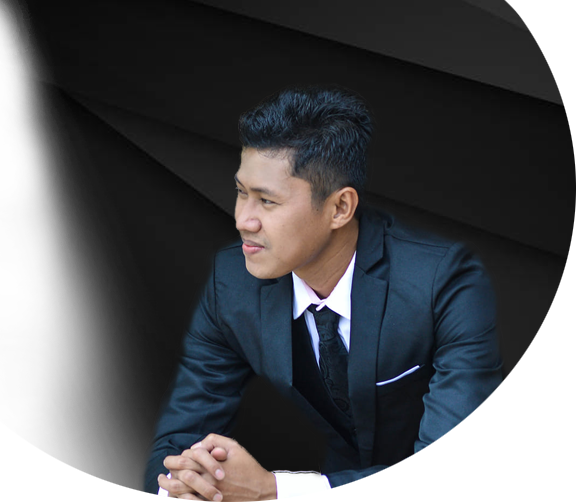
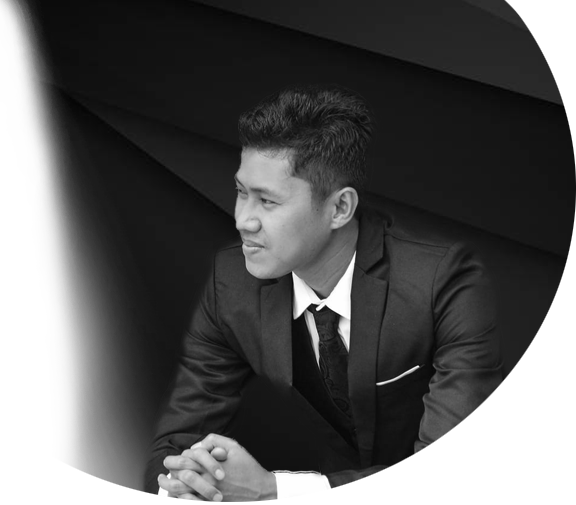
Improved header background image.

diff --git a/blog/static/blog/css/theme.css b/blog/static/blog/css/theme.css
@@ -124,19 +124,19 @@ body{
 }
 
 #header{
-    display: grid;
-    grid-template-columns: 100% 0%;
+    height: 100vh;
+    background: none;
 }
 
 #header p{
-    color: rgb(255,255,255);
+    color: rgb(255, 255, 255);
     margin: 0;
 }
 
 #hello{
     font-family: consola;
     font-size: 1.2rem;
-    margin-top: 7rem;
+    padding-top: 8rem;
     margin-left: 3rem;
 }
 
@@ -150,20 +150,16 @@ body{
     font-family: raleway;
     font-size: 1.2rem;
     margin: 0 5rem 0 3rem;
+    width: 70%;
 }
 
 #header-button{
     margin: 4rem 0 3rem 3rem;
 }
 
-#big-img{
-    display: none;
-}
-
 #me-img{
     width: 100%;
-    filter: grayscale(50%);
-    -webkit-filter: grayscale(50%);
+    filter: grayscale(100%);
 }
 
 .more-button{
@@ -211,7 +207,7 @@ body{
 #about{
     height: auto;
     padding-top: 1.5rem;
-    margin-top: 15rem;
+    margin-top: 8rem;
 }
 
 #aboutprofile{
@@ -293,7 +289,7 @@ body{
 #project{
     height: auto;
     padding-top: 1.5rem;
-    margin-top: 15rem;
+    margin-top: 12rem;
 }
 
 .projectscontent{
@@ -534,11 +530,13 @@ body{
     }
 
     #header{
-        display: grid;
-        grid-template-columns: 50% 50%;
+        background: url("/static/blog/media/user/me.png");
+        background-repeat: no-repeat;
+        background-position: right 8rem top 5rem;
     }
 
     #hello{
+        padding-top: 10rem;
         margin-left: 10rem;
     }
 
@@ -548,16 +546,12 @@ body{
     }
 
     #motto{
+        width: 40%;
         margin: 2rem 0 3rem 10rem;
     }
     
     #header-button{
         margin: 0 0 0 10rem;
-    }
-
-    #big-img{
-        display: block;
-        padding: 5rem 7rem 0 0;
     }
 
     .pagetitle p, #postdetailtitle p{

diff --git a/blog/templates/blog/section.html b/blog/templates/blog/section.html
@@ -22,9 +22,6 @@
 				<a class="more-button" href="mailto:danialjade@gmail.com">Get In Touch With Me</a>
 			</div>
 		</div>
-		<div id="big-img">
-			<img src="{% static 'blog/media/user/me.png' %}" id="me-img">
-		</div>
 	</section>
 	<!--------------------------- about section -->
 	<section id="about" class="container reveal">
